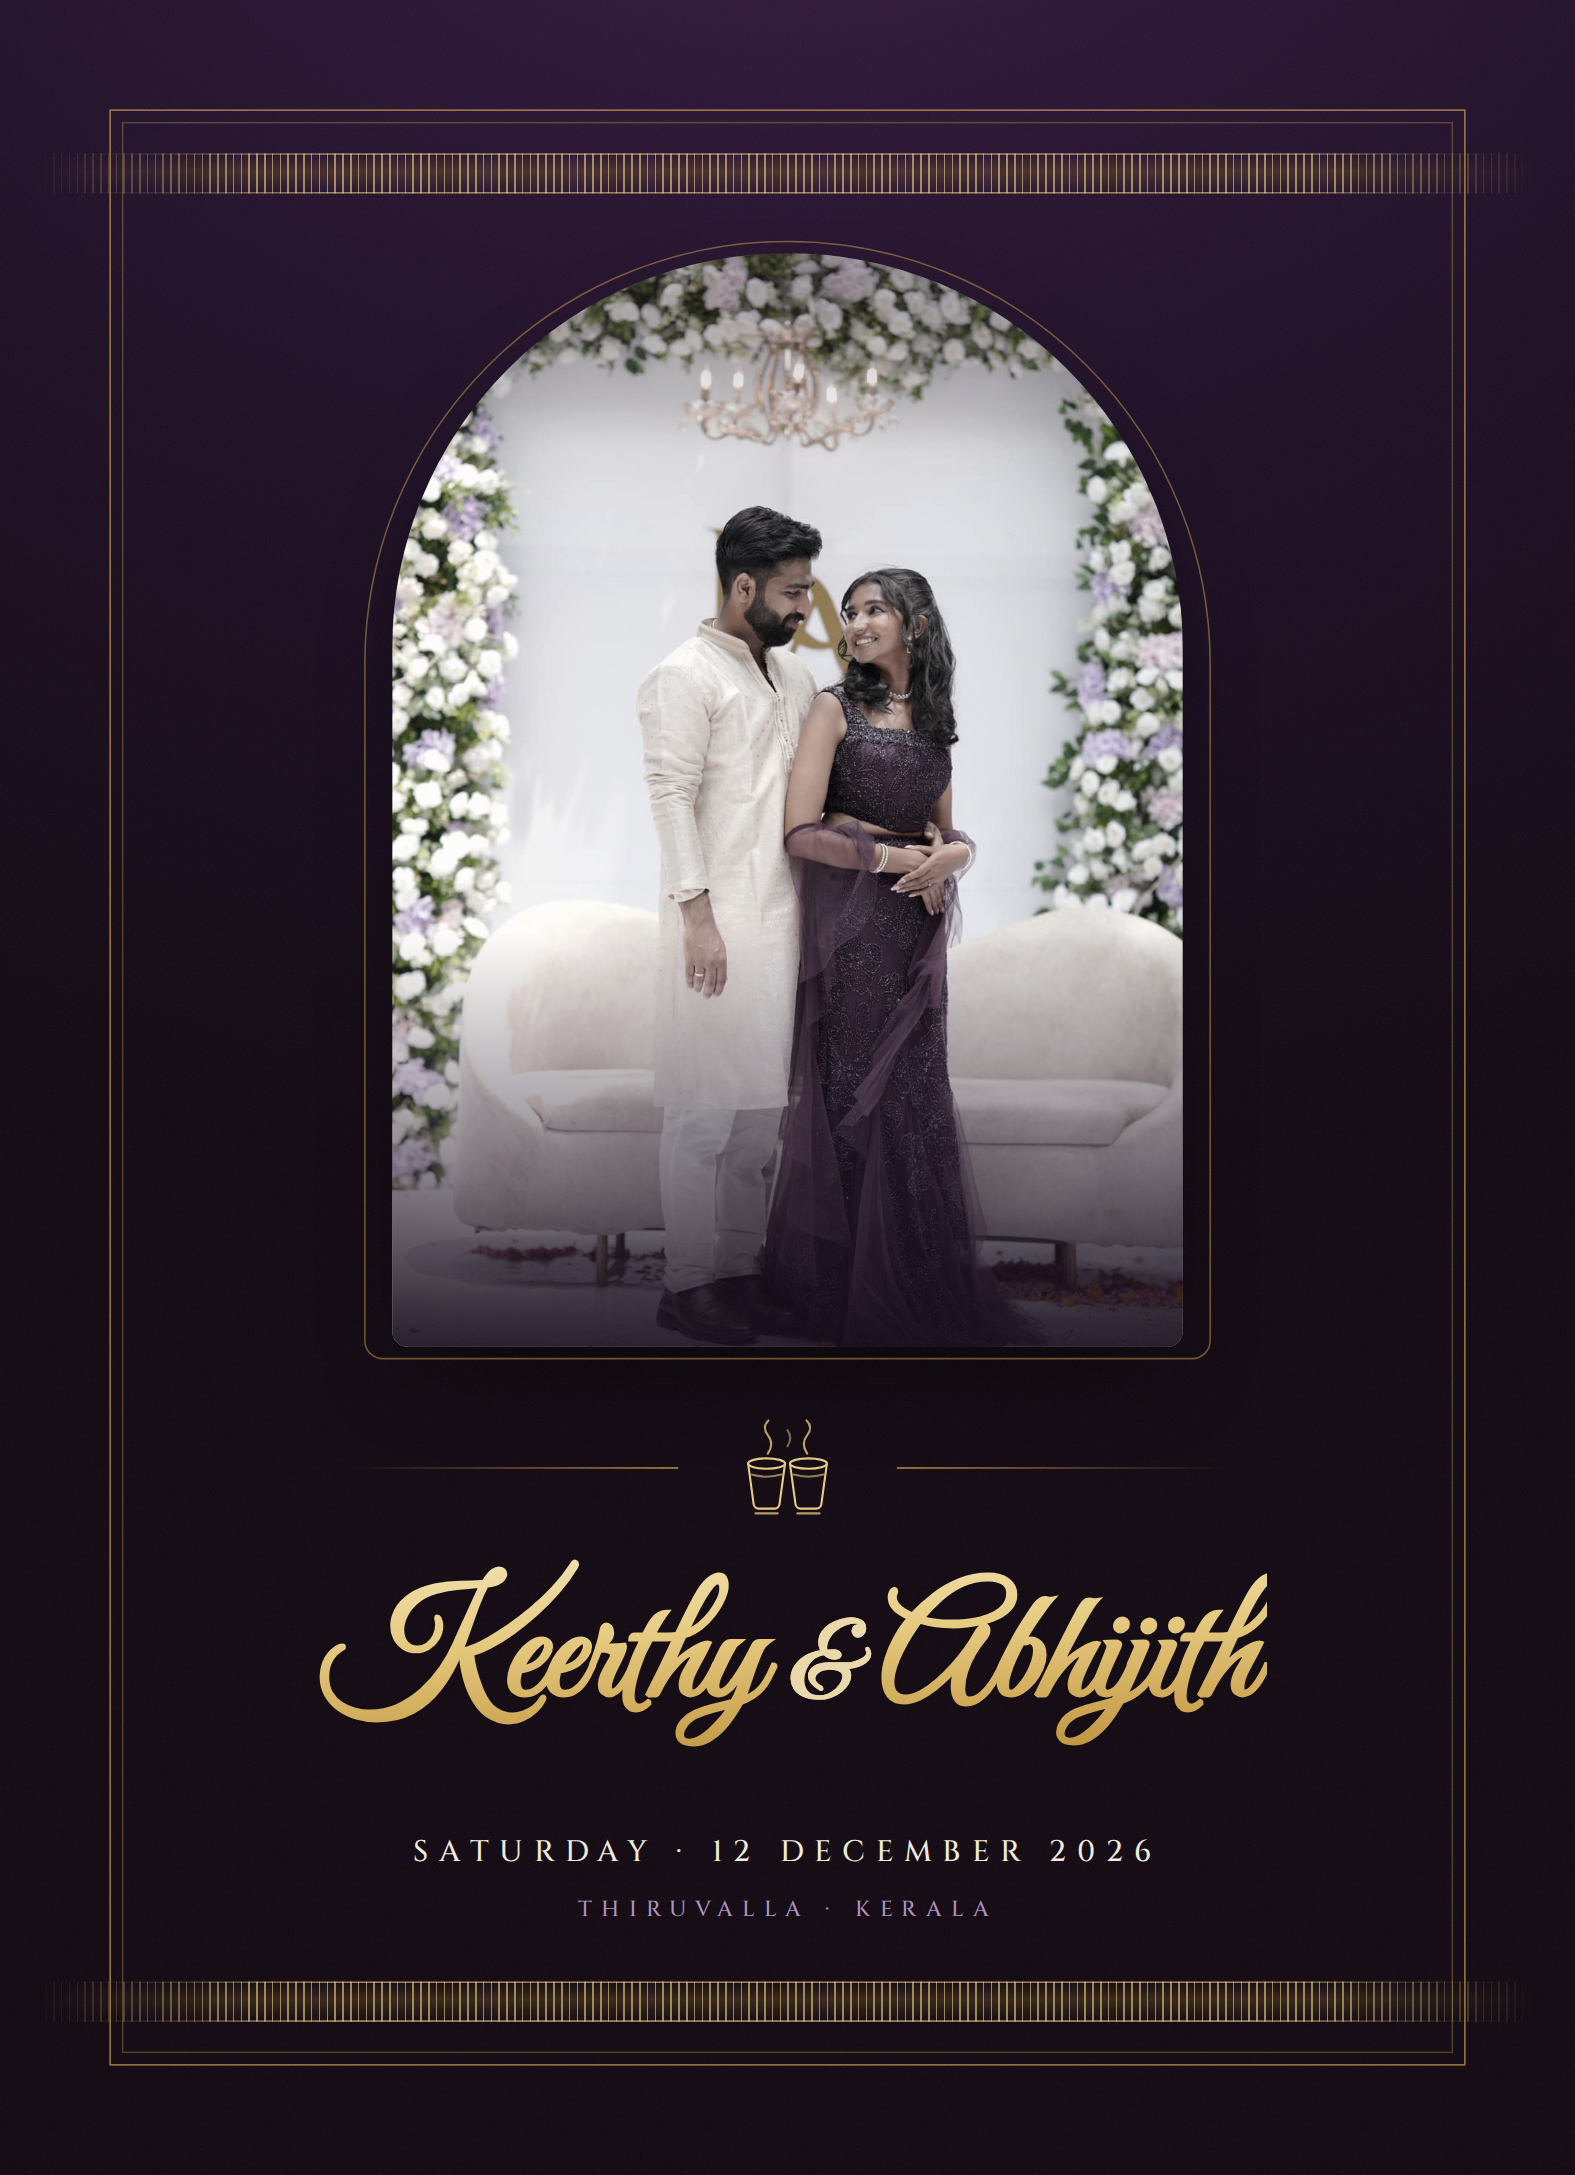
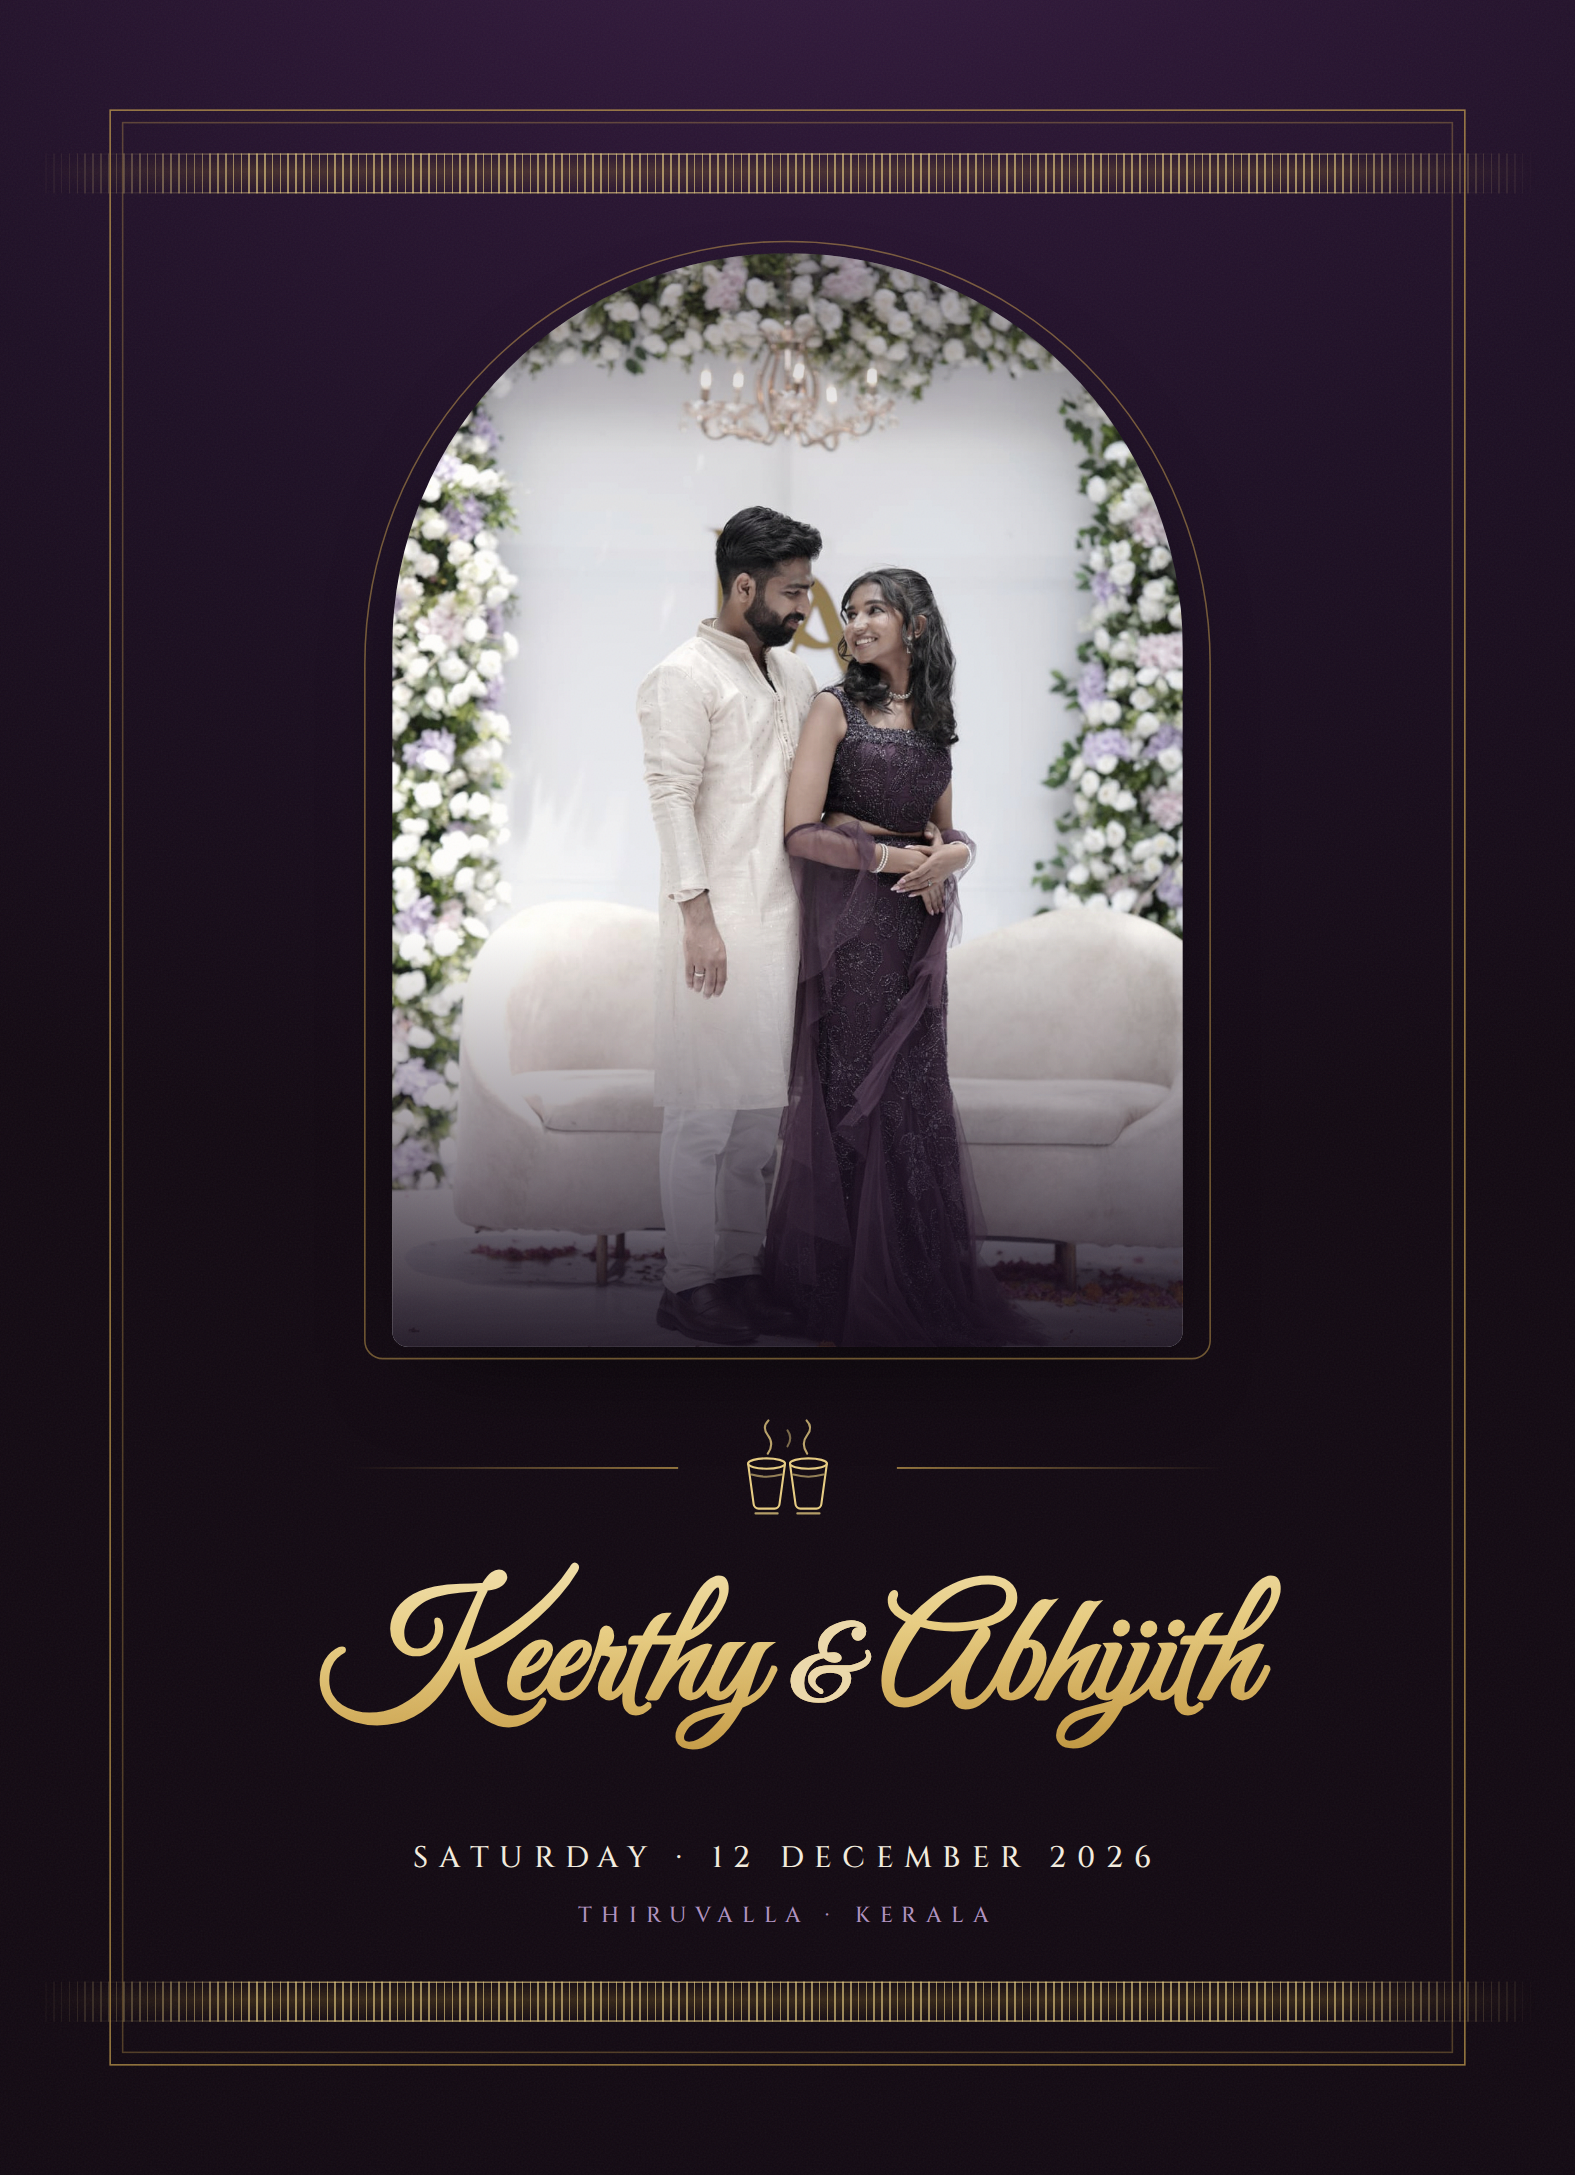
Stop the last letter of the names being sliced on the card front
The gold on the front is a gradient clipped to the glyphs, so the element box
is the paint box. Great Vibes leans right and its last letter's ascender
overhangs the advance width, which put that overhang outside the box with no
paint on it — the final "h" of Abhijith came out cut off on the diagonal.

Only the trailing name is affected, which is why it showed on the bride's side
and not the groom's: "Keerthy" ends in a y, which does not overhang.

Same class of bug as the descenders earlier, horizontal rather than vertical.
Fixed the same way, with padding on the paint box.

Claude-Session: https://claude.ai/code/session_01U3eNzvzbkYwe2F9QhNWExs

diff --git a/invitation/shared.css b/invitation/shared.css
@@ -267,7 +267,12 @@ body.groom .only-groom { display: block; }
 .names {
   font-family: var(--font-script);
   line-height: 1.42;
-  padding: 0.1em 0.06em;
+  /* Horizontal padding matters as much as the line-height: Great Vibes leans
+     right, so the last letter's ascender overhangs its advance width. With the
+     gradient clipped to the element box, that overhang fell outside the paint
+     box and the final "h" of Abhijith came out sliced. Only shows on whichever
+     name lands last — "Keerthy" ends in a y, which does not overhang. */
+  padding: 0.12em 0.26em;
   background: linear-gradient(178deg, #f6e8bf 0%, var(--gold-bright) 38%, var(--gold-mid) 74%, #a8842a 100%);
   -webkit-background-clip: text;
   background-clip: text;
